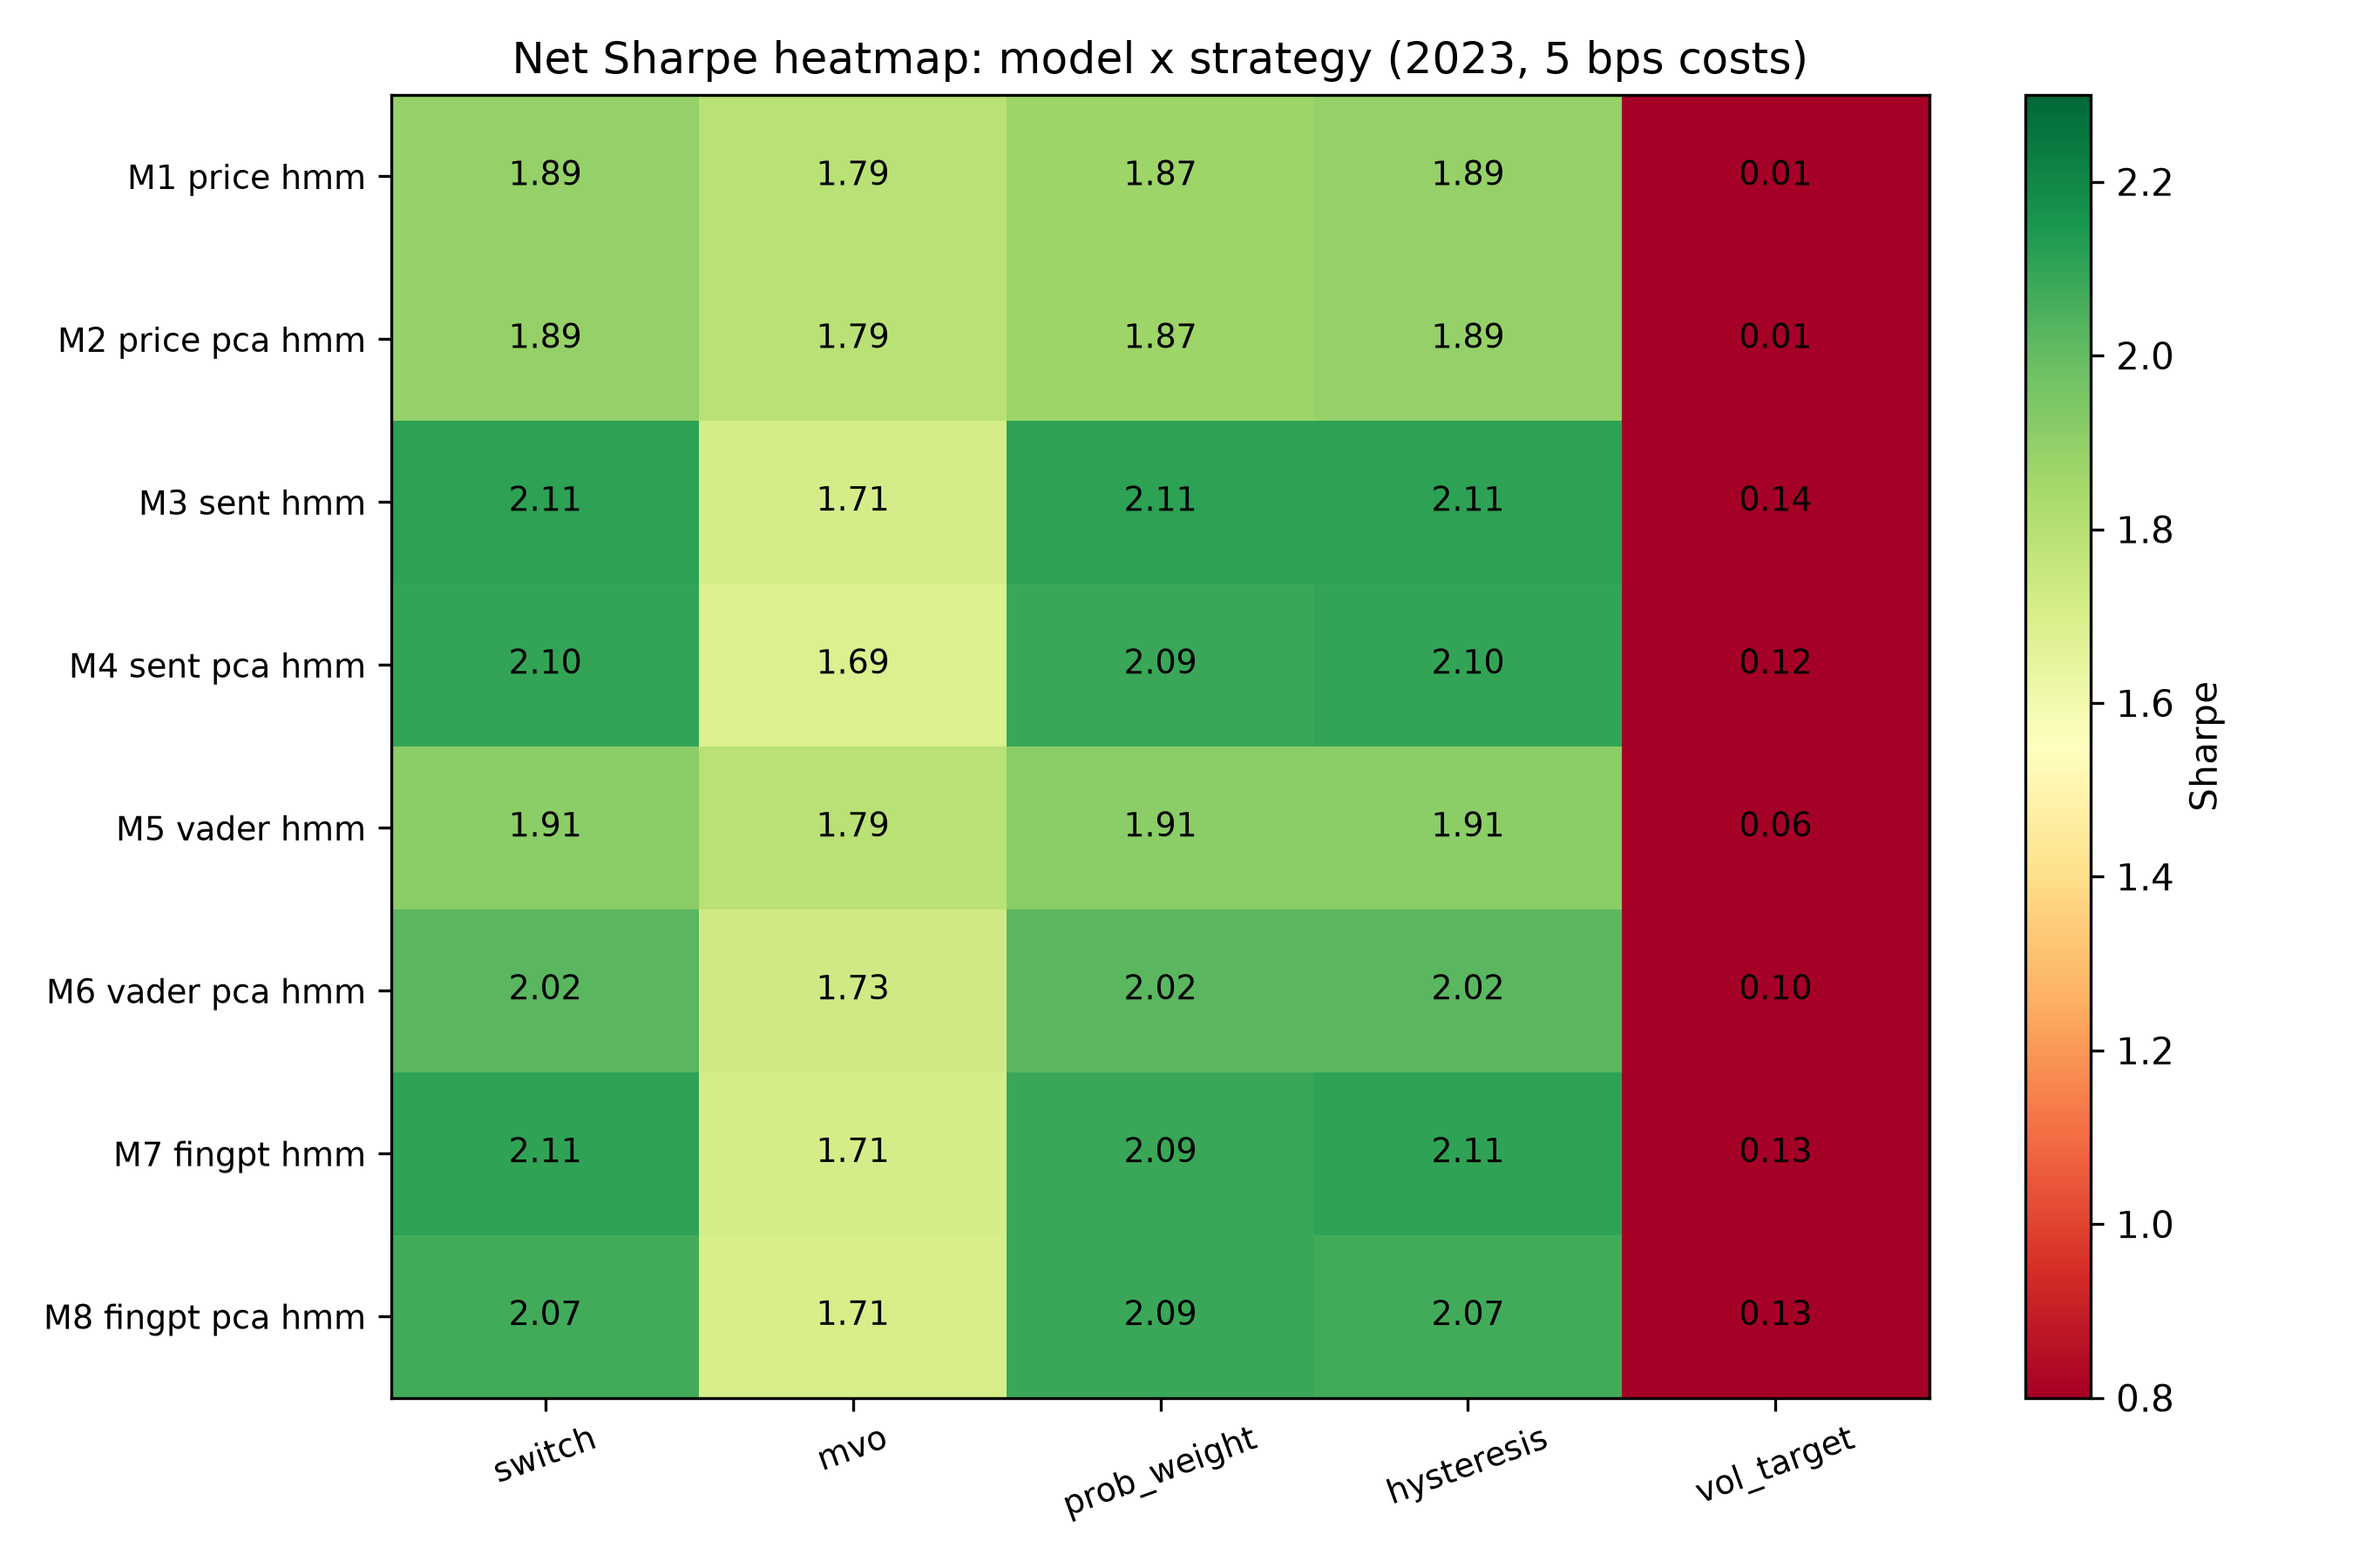
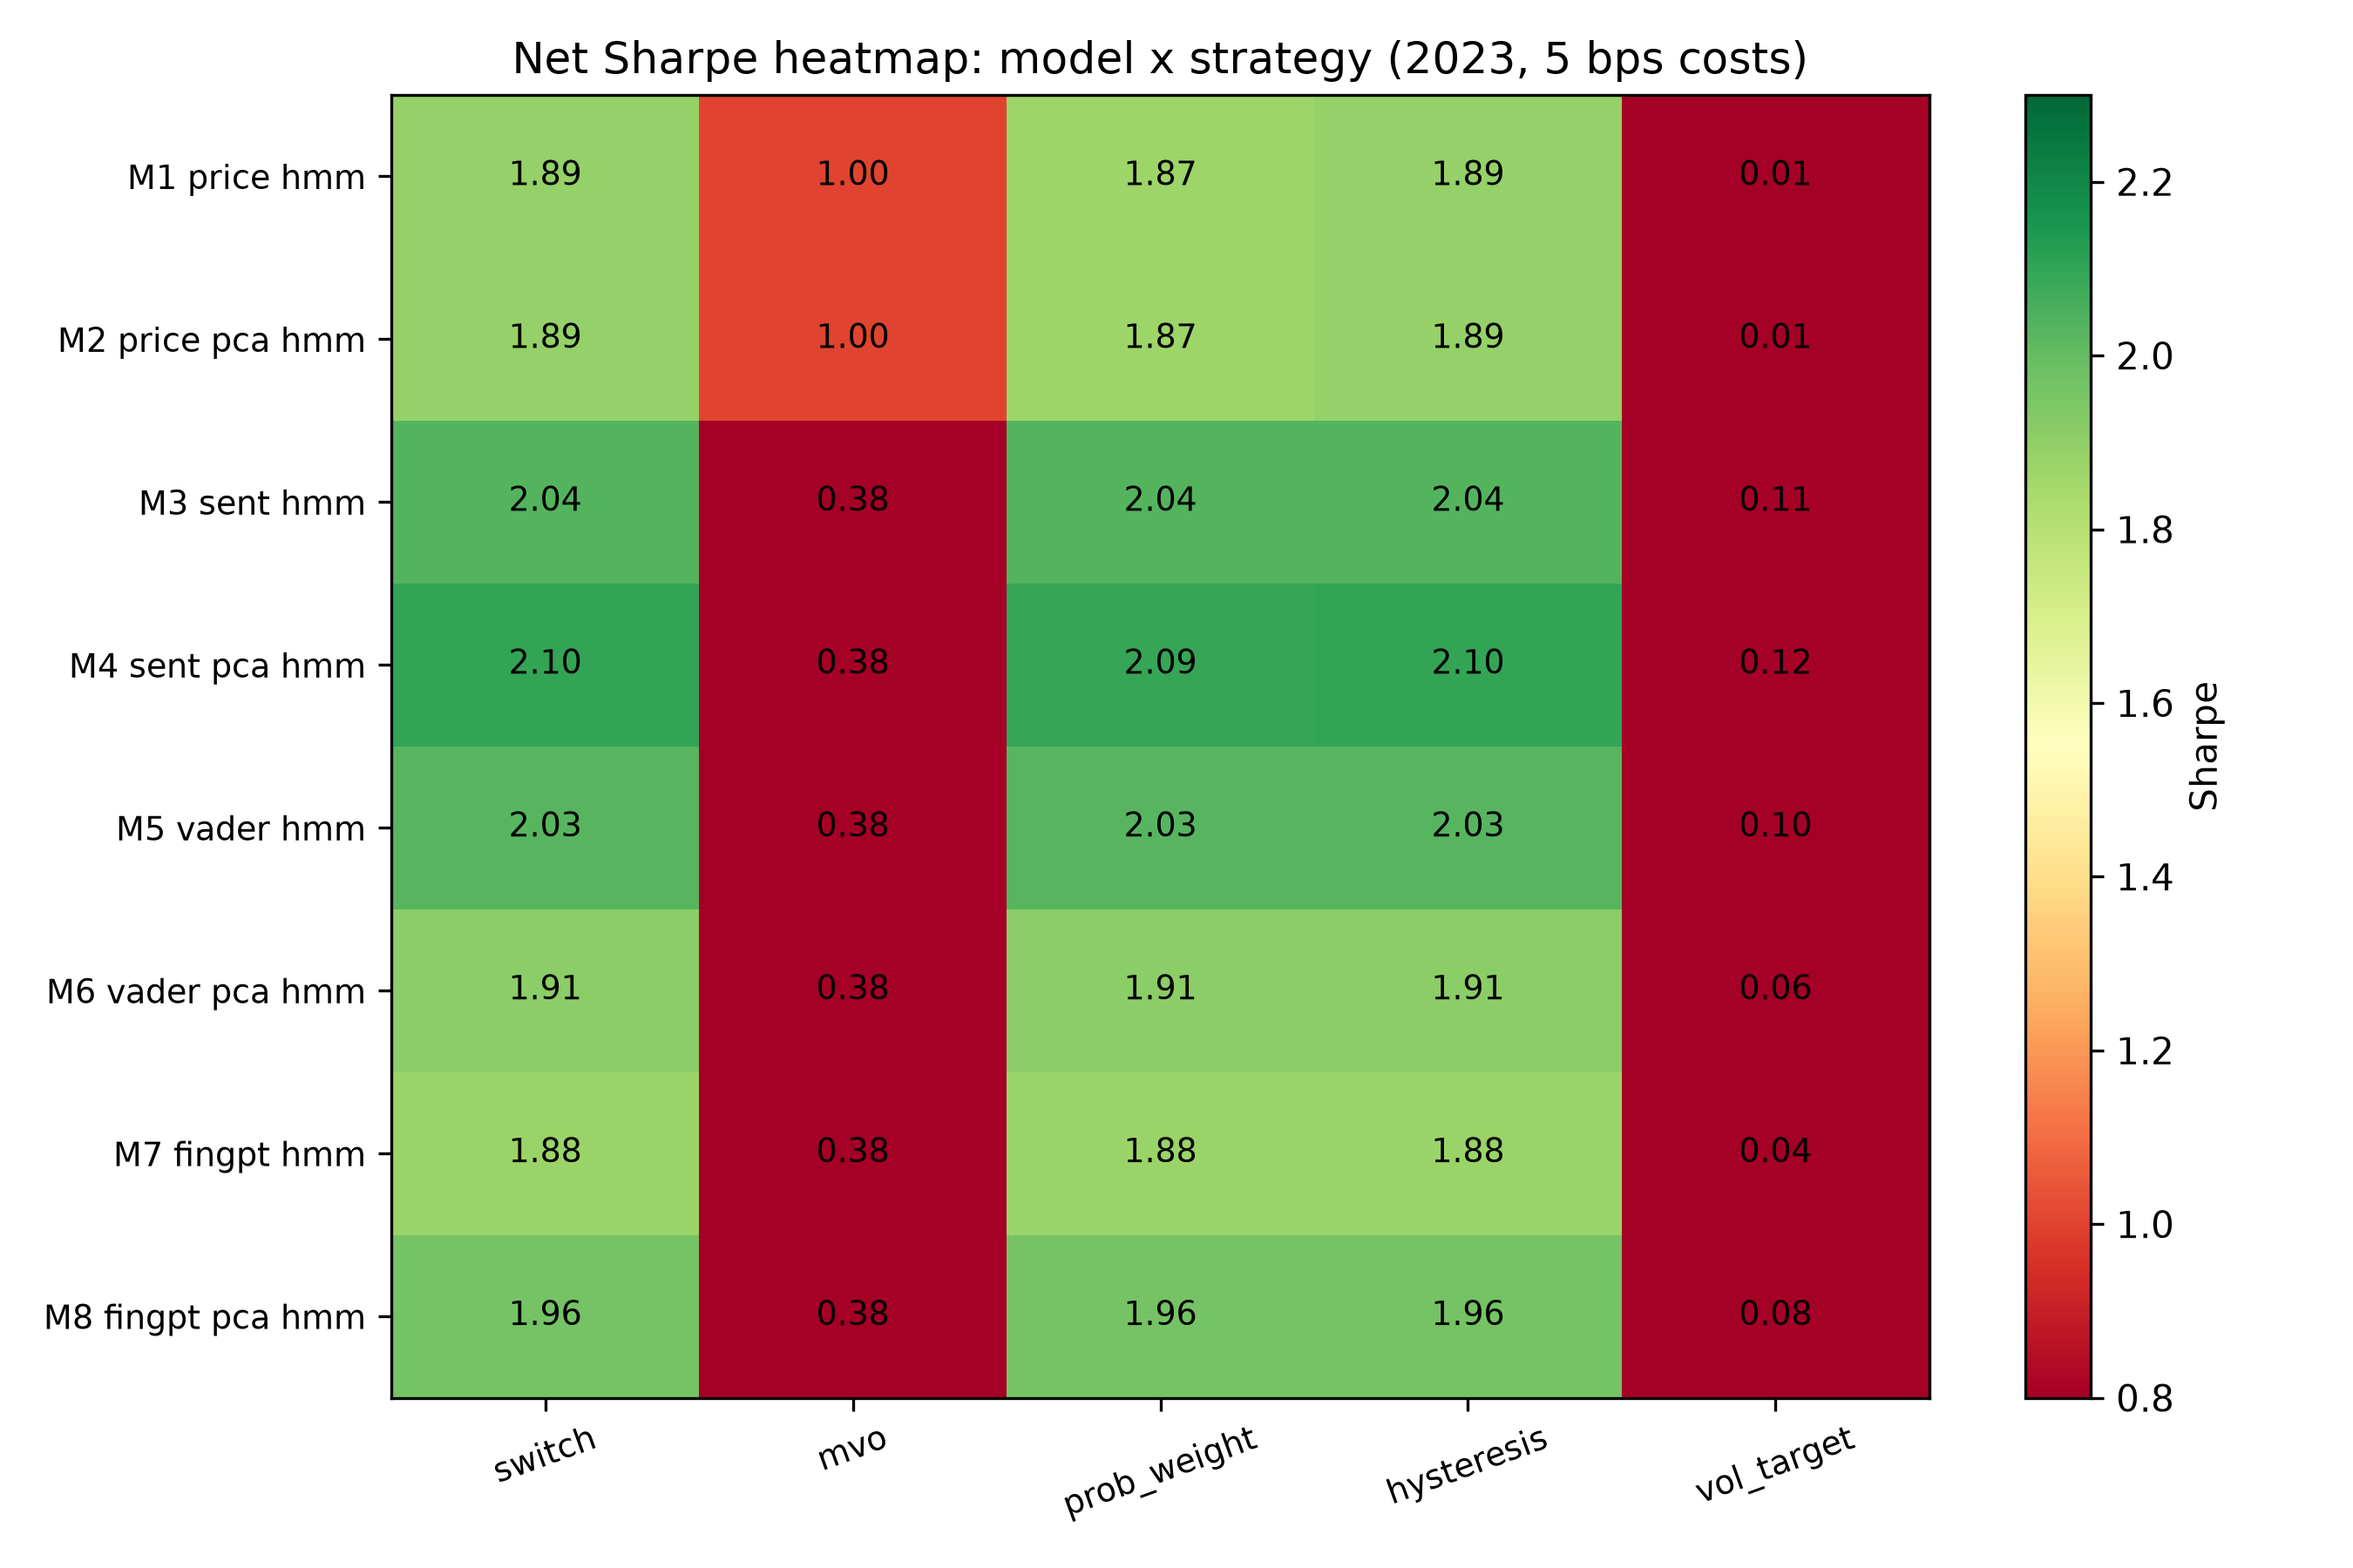
docs+figures: regenerate ALL stale plots with the audited pipeline; add extended-window chart
- 6 stale figures regenerated (Oct 24-25 era -> current audited code):
  cumulative_returns, regime_classification, mvo_weights, transition_lead,
  strategy_zoo_heatmap, sentiment_vs_baseline
- plot_sentiment_comparison.py repaired (same duplicated-builder rot as
  run_stats.py: missing FinGPT columns)
- NEW: extended_window_finbert_vs_vader.png — 2017-2026 monthly walk-forward
  wealth curves, log scale, Sharpe-annotated (B&H 0.81 / price 0.50 /
  FinBERT 0.44 / VADER 0.36)
- README: extended-window section embeds the new chart; B&H Sharpe corrected
  to 0.81 (was derived 0.77)

diff --git a/scripts/make_extended_chart.py b/scripts/make_extended_chart.py
@@ -1,0 +1,86 @@
+"""Extended-window (2017-2026) figure: FinBERT vs VADER vs price-only vs B&H.
+
+Refits the same monthly walk-forward used by run_extended_zoo.py and plots
+cumulative wealth of the causal walk-forward regime switches + B&H, with final
+Sharpe annotations. This is the chart for the 'does FinBERT beat VADER with
+real power?' README section.
+"""
+
+import os
+import sys
+
+import matplotlib
+
+matplotlib.use("Agg")
+import matplotlib.pyplot as plt
+import pandas as pd
+
+sys.path.insert(0, os.path.join(os.path.dirname(os.path.dirname(os.path.abspath(__file__))), "src"))
+sys.path.insert(0, os.path.dirname(os.path.abspath(__file__)))
+
+from hmm_sentiment import backtest as bt
+from hmm_sentiment.config import FIG_DIR
+from hmm_sentiment.market_data import fetch_market_data
+from hmm_sentiment.metrics import equity_curve, perf_stats
+from run_extended_zoo import MODELS, START, build_extended_features
+from run_long_backtest import month_posterior
+
+OUT = os.path.join(FIG_DIR, "extended_window_finbert_vs_vader.png")
+
+
+def main():
+    market, feat, _ = build_extended_features()
+    rets = feat[["SPY_ret", "IEF_ret"]].rename(columns={"SPY_ret": "SPY", "IEF_ret": "IEF"})
+    end = feat.index.max()
+    months = [m for m in pd.date_range("2017-02-01", end, freq="MS")
+              if feat[feat.index < m].shape[0] >= 120]
+    print(f"[ext-chart] {len(months)} monthly walk-forward refits x {len(MODELS)} models", flush=True)
+
+    curves = {"Buy & Hold SPY": bt.buy_and_hold(rets)}
+    sharpes = {"Buy & Hold SPY": perf_stats(curves["Buy & Hold SPY"])["sharpe"]}
+    labels = {
+        "M1_price_hmm": "Price-only HMM",
+        "M3_finbert_hmm": "FinBERT sentiment HMM",
+        "M5_vader_hmm": "VADER sentiment HMM",
+    }
+    colors = {"M1_price_hmm": "#7f7f7f", "M3_finbert_hmm": "#2ca02c", "M5_vader_hmm": "#ff7f0e"}
+    for name, (cols, use_pca) in MODELS.items():
+        parts = []
+        for m_start in months:
+            m_end = m_start + pd.offsets.MonthEnd(0)
+            train = feat[feat.index < m_start]
+            month = feat[(feat.index >= m_start) & (feat.index <= m_end)]
+            if len(month) == 0 or len(train) < 120:
+                continue
+            parts.append(month_posterior(train, month, cols, use_pca, 42))
+        p_bull = pd.concat(parts).sort_index().dropna()
+        r, _ = bt.run_binary_switch(p_bull, rets, cost_bps=bt.COST_BPS)
+        curves[labels[name]] = r
+        sharpes[labels[name]] = perf_stats(r)["sharpe"]
+        print(f"[ext-chart] {name} done: Sharpe {sharpes[labels[name]]:.3f}", flush=True)
+
+    fig, ax = plt.subplots(figsize=(12.5, 6.5))
+    for label, r in curves.items():
+        eq = equity_curve(r)
+        sr = sharpes[label]
+        lw = 2.2 if "FinBERT" in label or label == "Buy & Hold SPY" else 1.5
+        ls = "--" if label == "Buy & Hold SPY" else "-"
+        ax.plot(eq.index, eq.values, lw=lw, ls=ls,
+                color={"Price-only HMM": "#7f7f7f", "FinBERT sentiment HMM": "#2ca02c",
+                       "VADER sentiment HMM": "#ff7f0e"}.get(label, "black"),
+                label=f"{label}  (Sharpe {sr:.2f})")
+    ax.set_yscale("log")
+    ax.set_ylabel("Wealth of $1 (log scale)")
+    ax.set_title("2017–2026, monthly walk-forward refits, causal posteriors, net of 5 bps:\n"
+                 "FinBERT vs VADER vs price-only regime switches and buy-and-hold", fontsize=11)
+    ax.legend(fontsize=9, loc="upper left")
+    ax.grid(alpha=0.3, which="both")
+    fig.tight_layout()
+    fig.savefig(OUT, dpi=300)
+    plt.close(fig)
+    print(f"[ext-chart] saved {OUT}", flush=True)
+    print("EXT_CHART_DONE", flush=True)
+
+
+if __name__ == "__main__":
+    main()

diff --git a/scripts/plot_sentiment_comparison.py b/scripts/plot_sentiment_comparison.py
@@ -17,6 +17,7 @@ from hmm_sentiment import backtest as bt
 from hmm_sentiment.config import COST_BPS, EVAL_END, EVAL_START, FIG_DIR
 from hmm_sentiment.daily_features import build_daily_news_features, map_articles_to_trading_days
 from hmm_sentiment.finbert_scoring import score_articles
+from hmm_sentiment.fingpt_scoring import fingpt_scores
 from hmm_sentiment.llm_importance import rate_importance
 from hmm_sentiment.market_data import fetch_market_data
 from hmm_sentiment.metrics import equity_curve, perf_stats
@@ -48,8 +49,16 @@ def main():
     v_daily = build_daily_news_features(v_merged, market.index).rename(
         columns={"sent_w": "sent_w_v", "sent_w_ema5": "sent_w_ema5_v", "sent_disp": "sent_disp_v"}
     )
+    f_scored = fingpt_scores(news)
+    f_scored["importance"] = rate_importance(f_scored["headline"].tolist())
+    f_merged = map_articles_to_trading_days(f_scored, market.index)
+    f_daily = build_daily_news_features(f_merged, market.index).rename(
+        columns={"sent_w": "sent_w_f", "sent_w_ema5": "sent_w_ema5_f", "sent_disp": "sent_disp_f"}
+    )
     feat = market.join(daily, how="left").join(
         v_daily[["sent_w_v", "sent_w_ema5_v", "sent_disp_v"]], how="left"
+    ).join(
+        f_daily[["sent_w_f", "sent_w_ema5_f", "sent_disp_f"]], how="left"
     )
 
     eval_idx = feat.loc[EVAL_START:EVAL_END].index

diff --git a/README.md b/README.md
@@ -81,12 +81,15 @@ the two parents (1.96), never ahead (M13 vs M3 p = 0.80).
 | ![compression](outputs/figures/labeler_score_compression.png) | Why big models hedge toward neutral |
 | ![zoo](outputs/figures/labeler_variants_zoo.png) | Big-model arms + hybrids: wealth curves & Sharpe |
 | ![corr](outputs/figures/labeler_vs_finbert_correlation.png) | Daily series, scatter, rolling correlation vs FinBERT |
+| ![ext](outputs/figures/extended_window_finbert_vs_vader.png) | 2017–2026 extended window: FinBERT vs VADER vs price-only vs B&H |
 | ![glm corr](outputs/figures/labeler_big_vs_finbert_correlation_glm.png) | Same, GLM arm |
 | ![glm zoo](outputs/figures/labeler_variants_zoo_glm.png) | GLM-arm zoo (independent reproduction) |
 | ![lead](outputs/figures/transition_lead_time_svb.png) | Crisis-entry timing (sentiment models missed SVB) |
 | ![regimes](outputs/figures/regime_classification_comparison.png) | Regime flags on the SPY price path |
 
 ## Extended window (2017–2026): does FinBERT beat VADER with real power?
+
+![Extended window](outputs/figures/extended_window_finbert_vs_vader.png)
 
 Corpus extended to **~15,000 articles across 2017-01 → 2026-11** (10 years,
 2,454 trading days, 118 monthly walk-forward refits). Answer: **no.**
@@ -96,7 +99,7 @@ Corpus extended to **~15,000 articles across 2017-01 → 2026-11** (10 years,
 | M1 price-only HMM | 0.50 |
 | M3 FinBERT | 0.44 |
 | M5 VADER | 0.36 |
-| Buy & Hold SPY | 0.77 |
+| Buy & Hold SPY | 0.81 |
 | M12 deepseek labeler / M13 hybrid | 1.58 / 1.96 (2023-only, not comparable) |
 
 - **FinBERT vs VADER: +0.09 Sharpe, JK p = 0.66, Holm 1.0** — statistically zero
